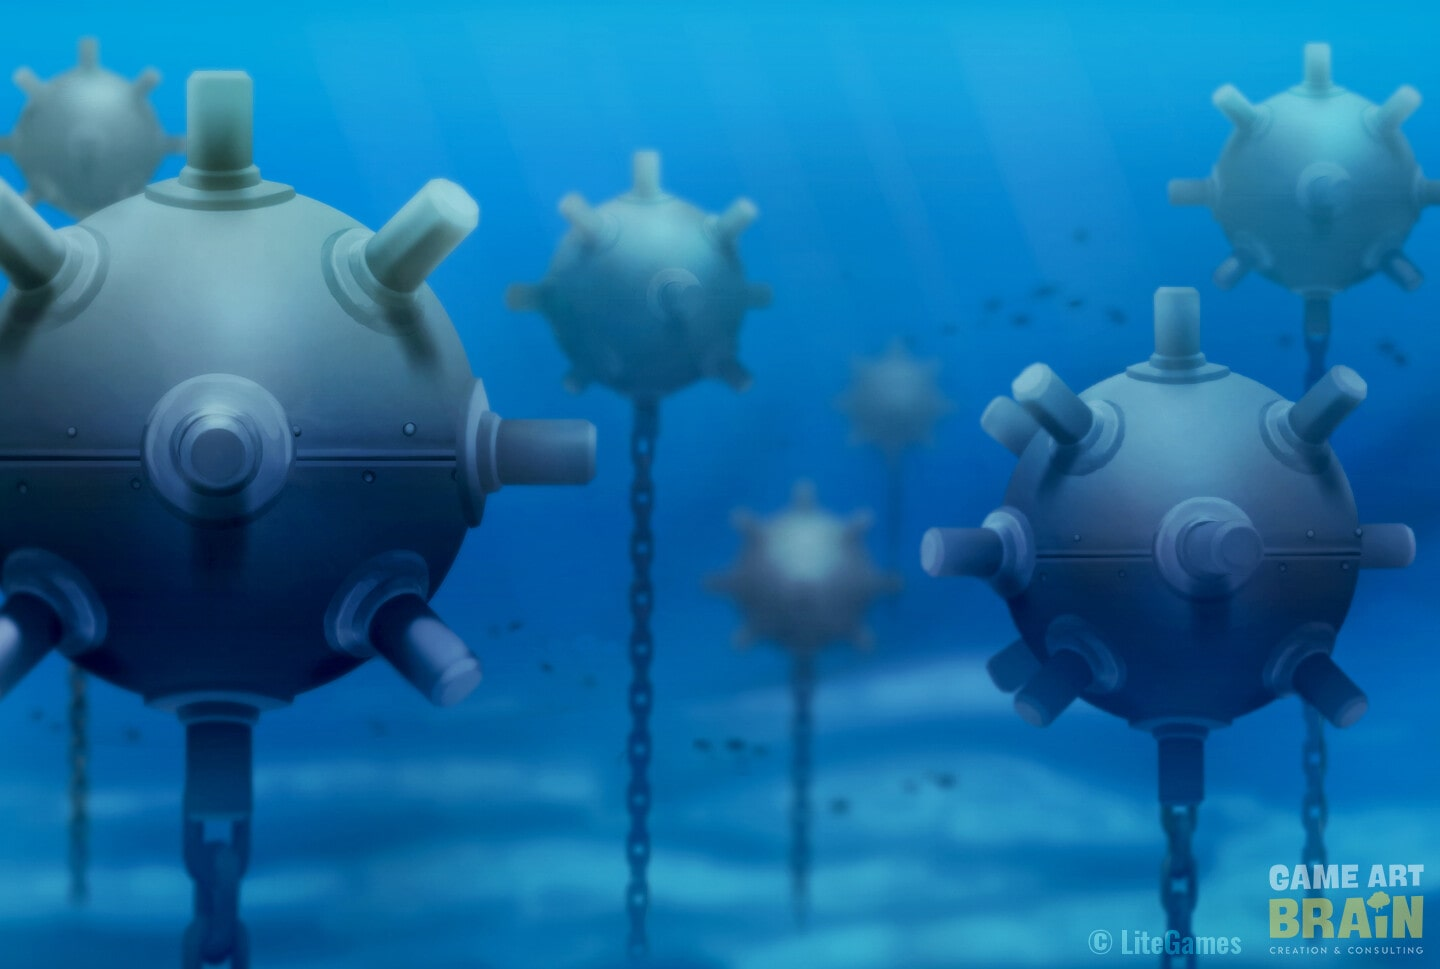
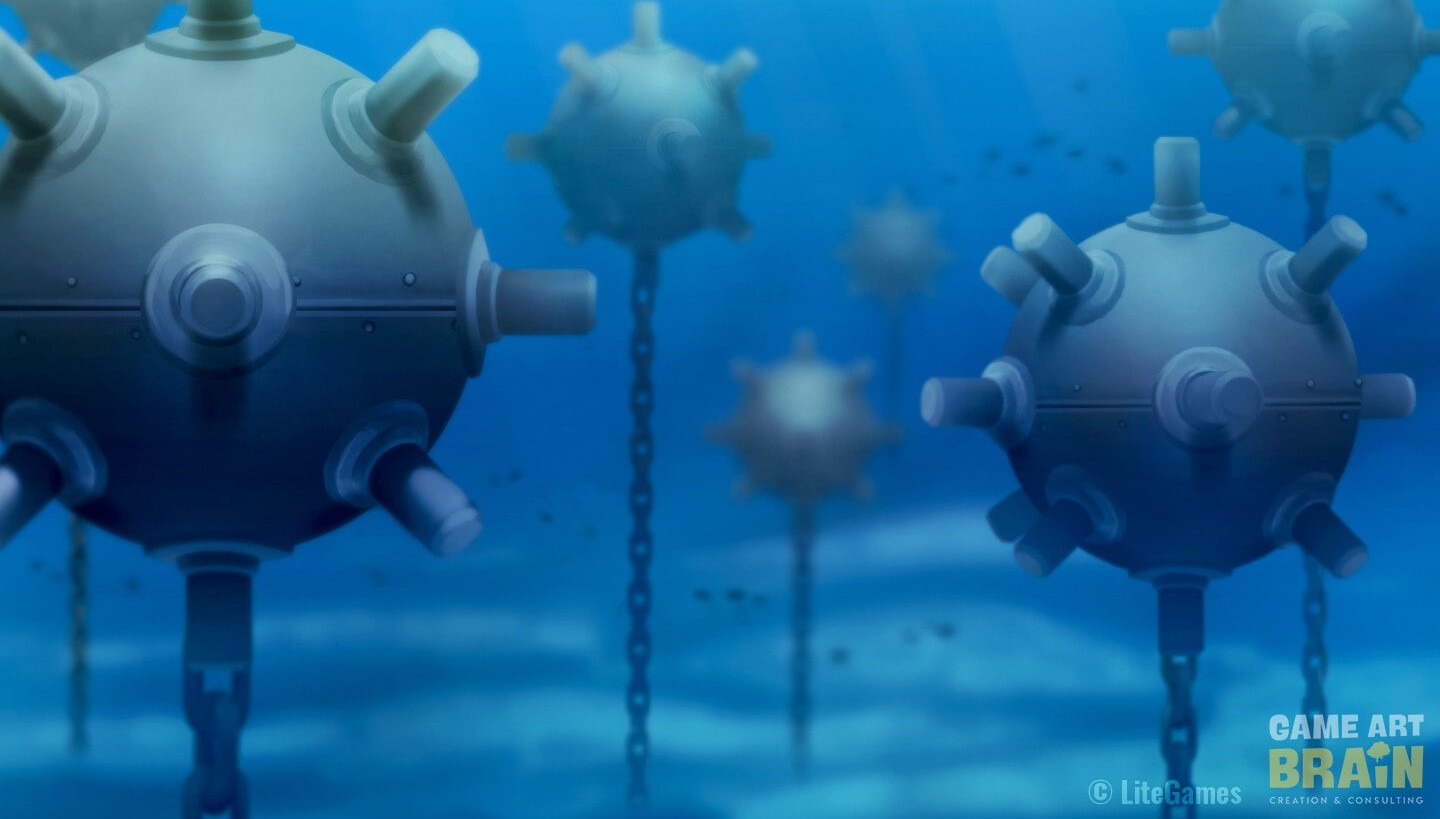
Resized canvas

diff --git a/script.js b/script.js
@@ -223,11 +223,15 @@ const minesweeper = {
         const div = document.createElement("div");
         const p1 = document.createElement("p");
         
-        p1.innerText = "Credits:";
-
         div.appendChild(p1);
-        div.appendChild(document.createElement("br"));
-        div.innerHTML = "&copy Sandro Lipinski";    
+        div.appendChild(document.createElement("br"));   
+        div.innerHTML = `
+        Credits:
+        <br><a href="https://www.flaticon.com/free-icons/91" title="91 icons">Number icons created by Md Tanvirul Haque - Flaticon</a>
+        <br><a href="https://www.flaticon.com/free-icons/bomb" title="bomb icons">Bomb icons created by Freepik - Flaticon</a>
+        <br><a href="https://www.flaticon.com/free-icons/flag" title="flag icons">Flag icons created by Pixel perfect - Flaticon</a>
+        <br><a href="https://www.artstation.com/artwork/XnY2XL" title="bomb background">Bomb background created by Sibylle Hell - Artstation</a>
+    `; 
         footer.appendChild(div);
 
         return footer;

diff --git a/styles.css b/styles.css
@@ -16,14 +16,14 @@ html{
 
 .content{
     height: min(100vh, 200vw);
-    width: min(100vw, 50vh);
+    width: min(100vw, 75vh);
     margin: 0 auto;
     background-color: brown;
 }
 
 header{
     background-color: var(--bg-color1);
-    height: 15%;
+    height: 10%;
     font-family: 'Courier New', Courier, monospace;
     color: whitesmoke;
     text-align: center;
@@ -32,7 +32,7 @@ header{
 }
 
 #playarea{
-    height: 50%;
+    height: 65%;
     background-color: #CECCD4;
     display: flex;
     position: relative;
@@ -104,7 +104,7 @@ header{
 
 
 .buttons{
-    height: 15%;
+    height: 10%;
     background-color: var(--bg-color1);
     display: flex;
     align-items: center;
@@ -154,7 +154,7 @@ header{
    
 footer{
     background-color: #BFA6B7;
-    height: 20%;
+    height: 15%;
     font-family:'Gill Sans', 'Gill Sans MT', Calibri, 'Trebuchet MS', sans-serif;
     align-content: center;
 }
